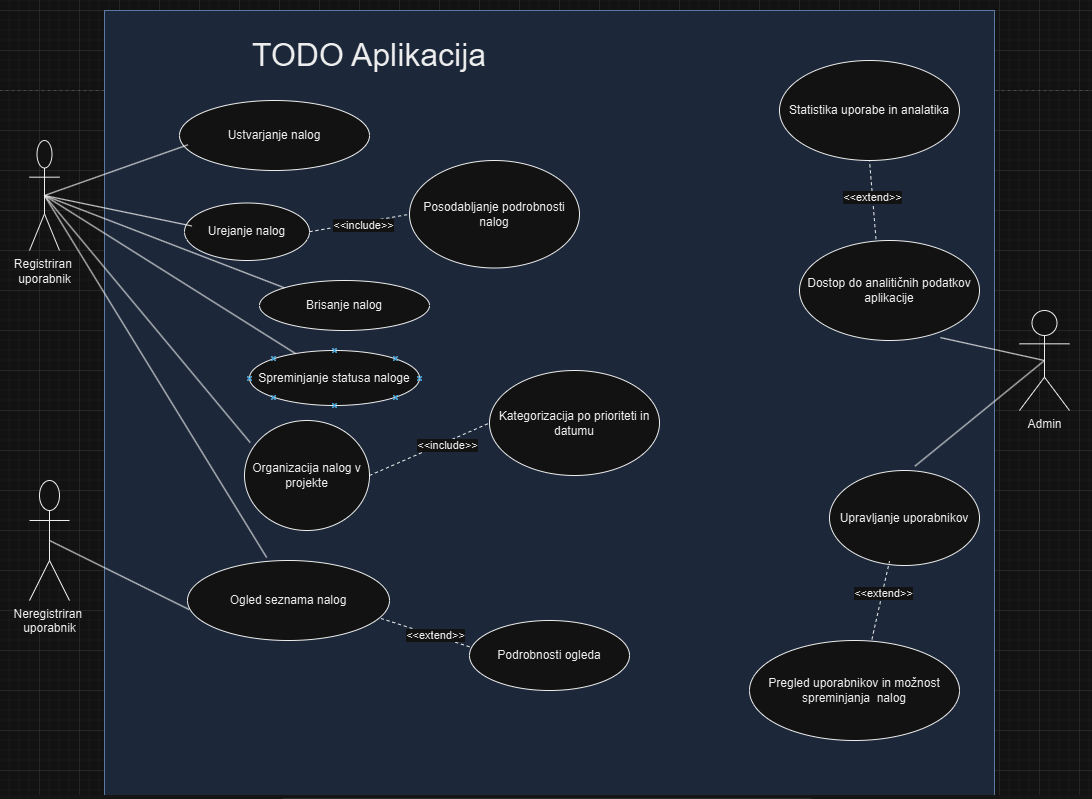
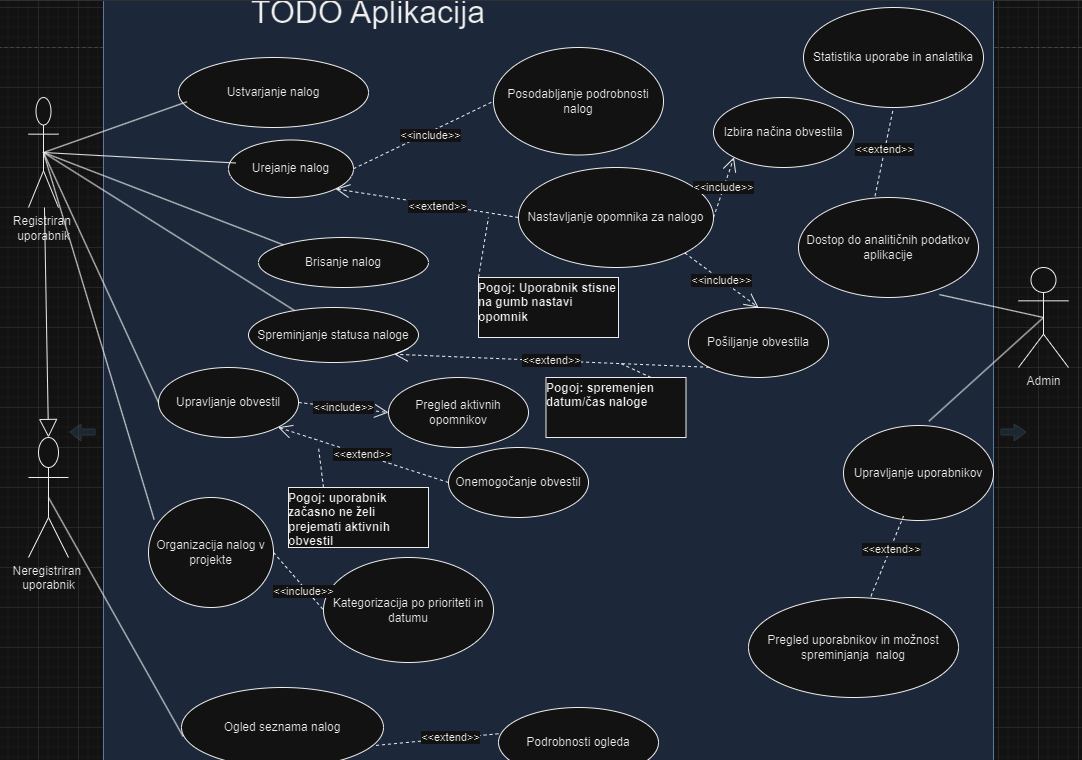
dodjanje kompleksne funkc na DPU

diff --git a/README.md b/README.md
@@ -98,6 +98,15 @@ Spodaj je prikazan diagram primerov uporabe za TODO aplikacijo, ki ponazarja gla
 2. **Urejanje nalog**: Omogoča uporabniku spreminjanje že obstoječih nalog, na primer spreminjanje roka ali statusa.
 3. **Brisanje nalog**: Uporabnik lahko odstrani naloge, ki niso več potrebne.
 4. **Prijava in odjava**: Omogoča uporabnikom prijavo v sistem za dostop do lastnih nalog in podatkov.
+5. **Nastavljanje opomnika za nalogo**: Registrirani uporabniki lahko nastavijo opomnike za posamezne naloge, da jih aplikacija obvesti pred datumom roka ali ob drugih pomembnih trenutkih:
+     - Povezave:
+         - Razširi **Urejanje naloge**: Omogoča uporabnikom, da dodajo ali spremenijo opomnik med urejanjem naloge.
+         - Vključuje **Izbira načina obvestila**: Uporabnik lahko izbere način obvestila (npr. e-mail, potisno obvestilo, SMS).
+         - Vključuje **Pošiljanje obvestila**: Aplikacija pošlje obvestilo uporabniku glede na nastavljeni opomnik ali ob specifičnih dogodkih (npr. sprememba statusa naloge ali bližanje roka).
+6. **Upravljanje obvestil**: Uporabnik lahko upravlja vsa svoja obvestila, jih pogleda, odstrani ali začasno onemogoči:
+    - Povezave: 
+        - Vključuje **Pregled aktivnih opomnikov**: Prikazuje seznam vseh aktivnih opomnikov za naloge.
+        - Razširi **Onemogočanje obvestil**: Omogoča uporabniku, da začasno ustavi vsa obvestila za naloge ali za določene naloge.
 
 **Podrobni opisi primerov uporabe po podanem obrazcu se nahajajo v :**:
 
